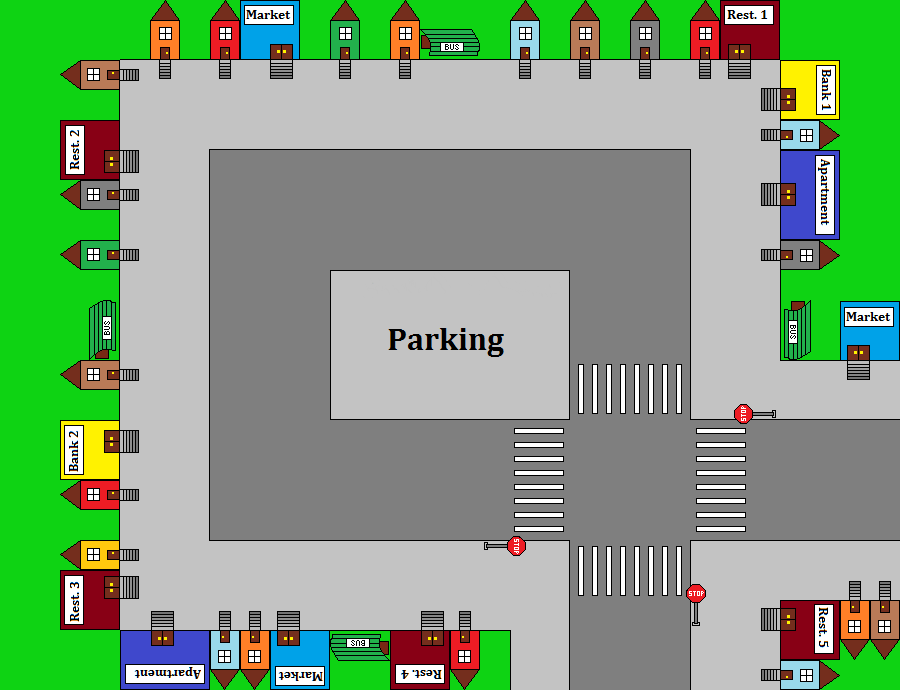
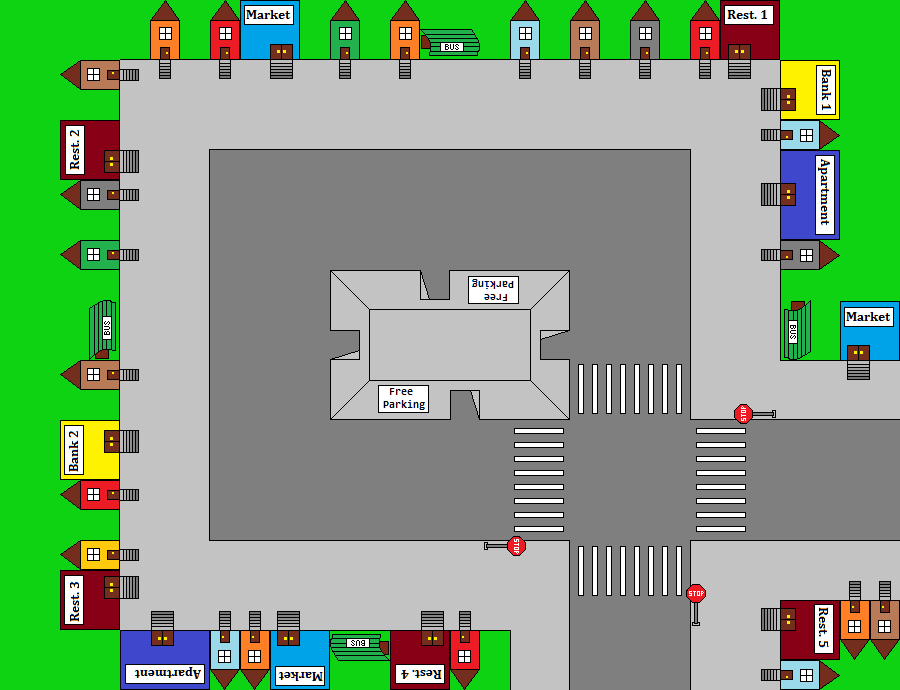
Added new coordinates and methods for car agents

diff --git a/src/city/CityMap.java b/src/city/CityMap.java
@@ -33,6 +33,7 @@ public class CityMap {
 	
 	Map<String, Position> buildingLocations = new HashMap<String, Position>();
 	Map<String, Position> parkingLocations = new HashMap<String, Position>();
+	List<Position> parkingEntrances = new ArrayList<Position>();
 	List<String> restaurants = new ArrayList<String>();
 	
 	Restaurant1 restaurant1;
@@ -99,6 +100,12 @@ public class CityMap {
 		parkingLocations.put("mark1", new Position(24,12));
 		parkingLocations.put("mark2", new Position(5,3));
 		parkingLocations.put("mark3", new Position(8,12));
+		
+		//Entrances to parking structure
+		parkingEntrances.add(new Position(7,9));
+		parkingEntrances.add(new Position(14,9));
+		parkingEntrances.add(new Position(10,7));
+		parkingEntrances.add(new Position(11,11));
 		
 		//Adding list of nearby locations to each bus stop
 		List<String> buildingList0 = new ArrayList<String>();
@@ -219,6 +226,19 @@ public class CityMap {
 			}
 		}
 		return minStop;
+	}
+	
+	public Position getParkingEntrance(Position p) {
+		int nearestEntrance = 0;
+		double distance = 1000;
+		for(int i = 0; i < parkingEntrances.size(); i++) {
+			double newDistance = parkingEntrances.get(i).distance(p);
+			if(newDistance < distance) {
+				distance = newDistance;
+				nearestEntrance = i;
+			}
+		}
+		return parkingEntrances.get(nearestEntrance);
 	}
 	
 	public void addBusStop(BusStop busStop) {

diff --git a/src/city/gui/ControlPanel.java b/src/city/gui/ControlPanel.java
@@ -41,6 +41,7 @@ import city.House;
 import city.Market;
 import activityLog.ActivityPane;
 import astar.AStarTraversal;
+import astar.Position;
 import Role.BankManagerRole;
 import Role.BankTellerRole;
 import Role.LandlordRole;
@@ -570,6 +571,15 @@ public class ControlPanel extends JPanel implements ActionListener{
       	sidewalkGrid[11][18].release(5);      	
       	
       	streetGrid[18][18].release(100); //starting point for vehicles
+      	
+      	streetGrid[7][9].release(100); //Parking entrances + tiles right outside
+      	streetGrid[6][9].release();
+      	streetGrid[14][9].release(100); 
+      	streetGrid[15][9].release();
+      	streetGrid[10][7].release(100); 
+      	streetGrid[10][6].release();
+      	streetGrid[11][11].release(100); 
+      	streetGrid[11][12].release();
       	
       	/********Finished setting up semaphore grid***********/
     }

diff --git a/src/city/transportation/Vehicle.java b/src/city/transportation/Vehicle.java
@@ -40,10 +40,6 @@ public abstract class Vehicle extends Agent {
 		if(aStar == null)
 			System.out.println("Vehicle moving to " + x + ", " + y + ".");
 		Position p = new Position(x, y);
-		
-		if(currentPosition.distance(p) > 16) {
-			//intermediate movement.
-		}
 		guiMoveFromCurrentPositionTo(p);
 	}
 	
